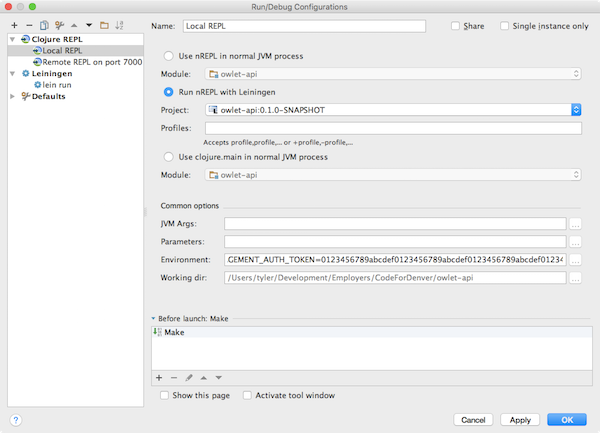
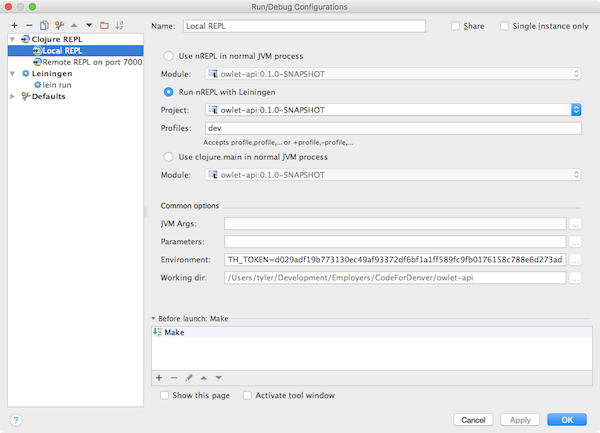
Adjustments to documentation for running in JetBrains IntelliJ IDEA with Cursive.

diff --git a/README.md b/README.md
@@ -104,6 +104,9 @@ _Local_.
 
 - Give the configuration a name, like "Local REPL".
 
+- Make sure _Run nREPL with Leiningen_ is selected and type `dev` in the
+_Profiles:_ field.
+
 - Populate the _Environment:_ field by clicking the **...** button on its right
 and entering keys OWLET_CONTENTFUL_MANAGEMENT_AUTH_TOKEN, etc., along with
 their respective values provided to you by a Code For Denver member.
@@ -152,10 +155,10 @@ which results in
 
 Note that this unnecessarily starts _another_ nREPL server on port 7000, as
 above with `lein run`. So you can use `lein repl :connect 7000` at the command
-line, or `lein repl :connect 59872`, where 59872 is the port number we saw when
-we started Local REPL above. Both will access the same environment of your
-running app, so defining a var or changing state will be visible in all the
-REPLs.
+line in a separate terminal, or `lein repl :connect 59872`, where 59872 is the
+port number we saw when we started Local REPL above. Both will access the same
+environment of your running app, so defining a var or changing state will be
+visible in all the REPLs.
 
 - Use the _Tools -> REPL_ menu to reload the file or just the
 expression you edited _while the code is executing_ and see results instantly.
